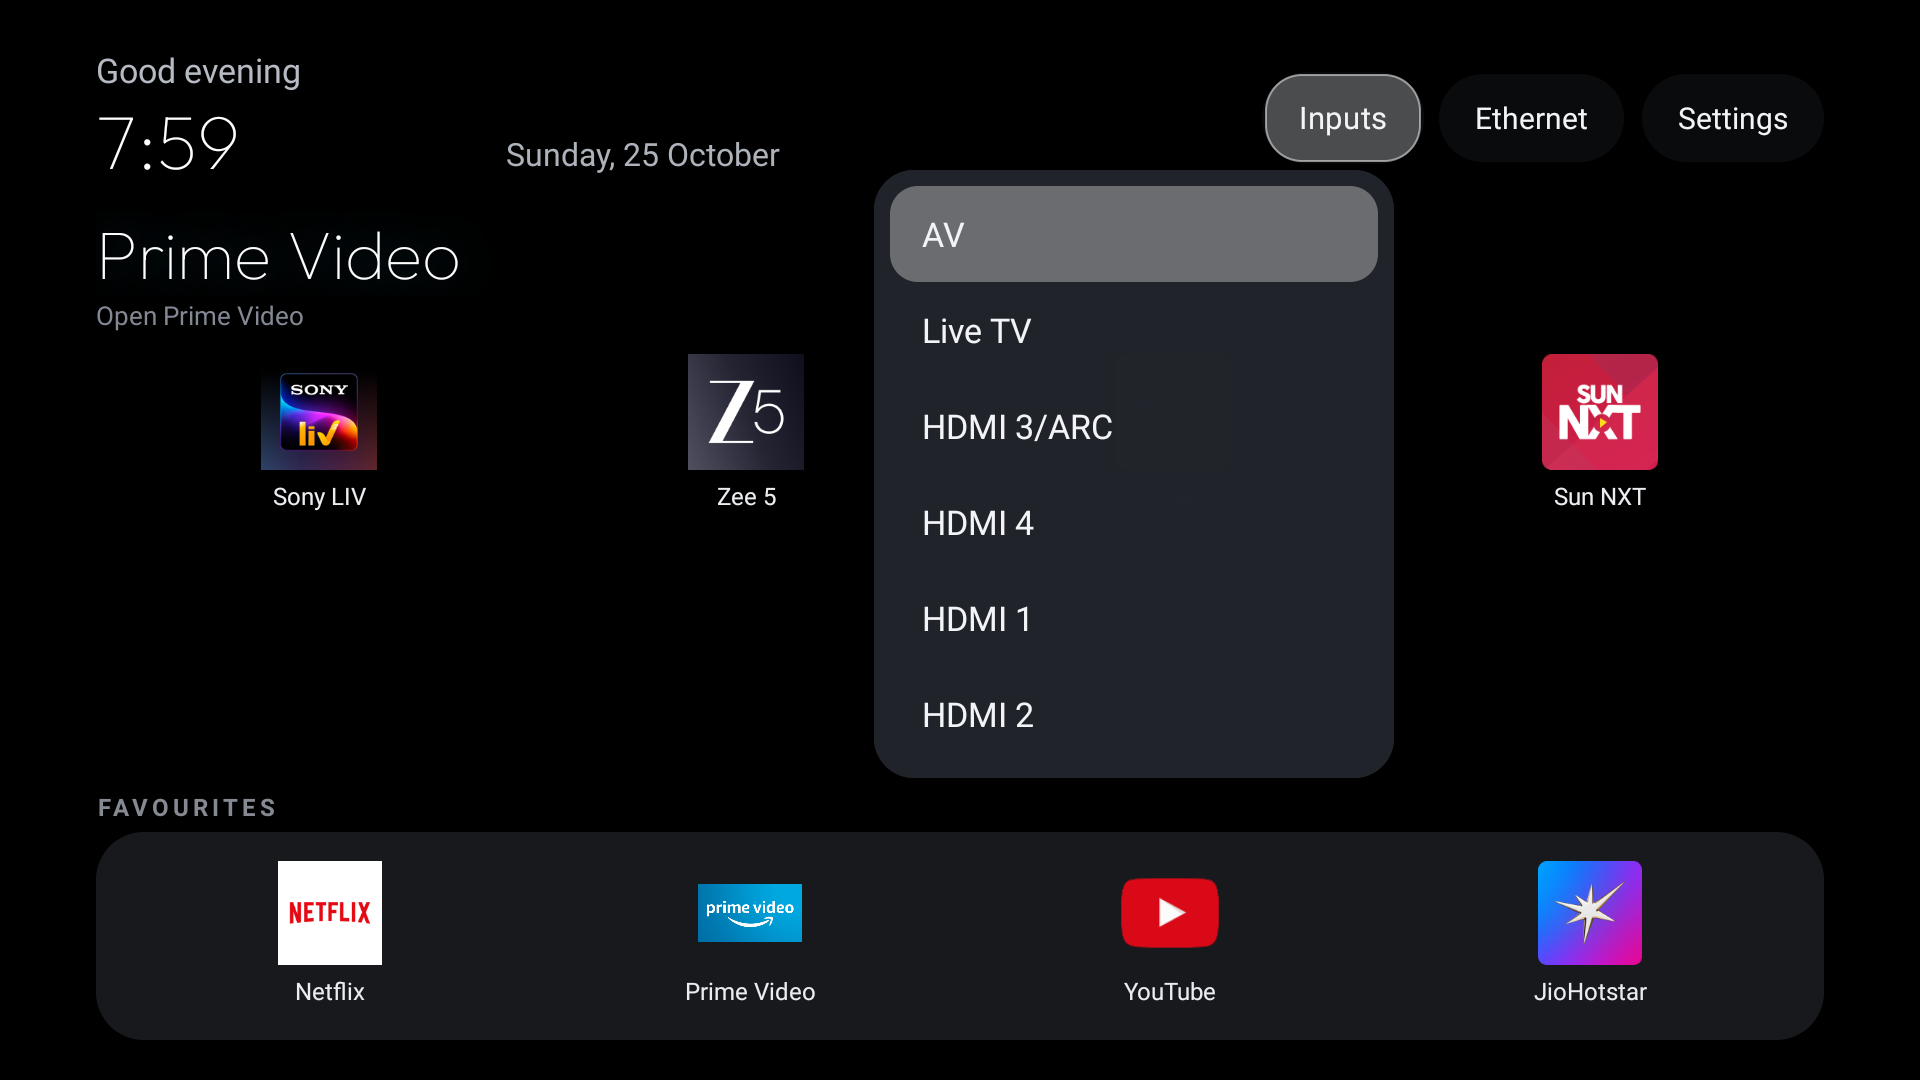
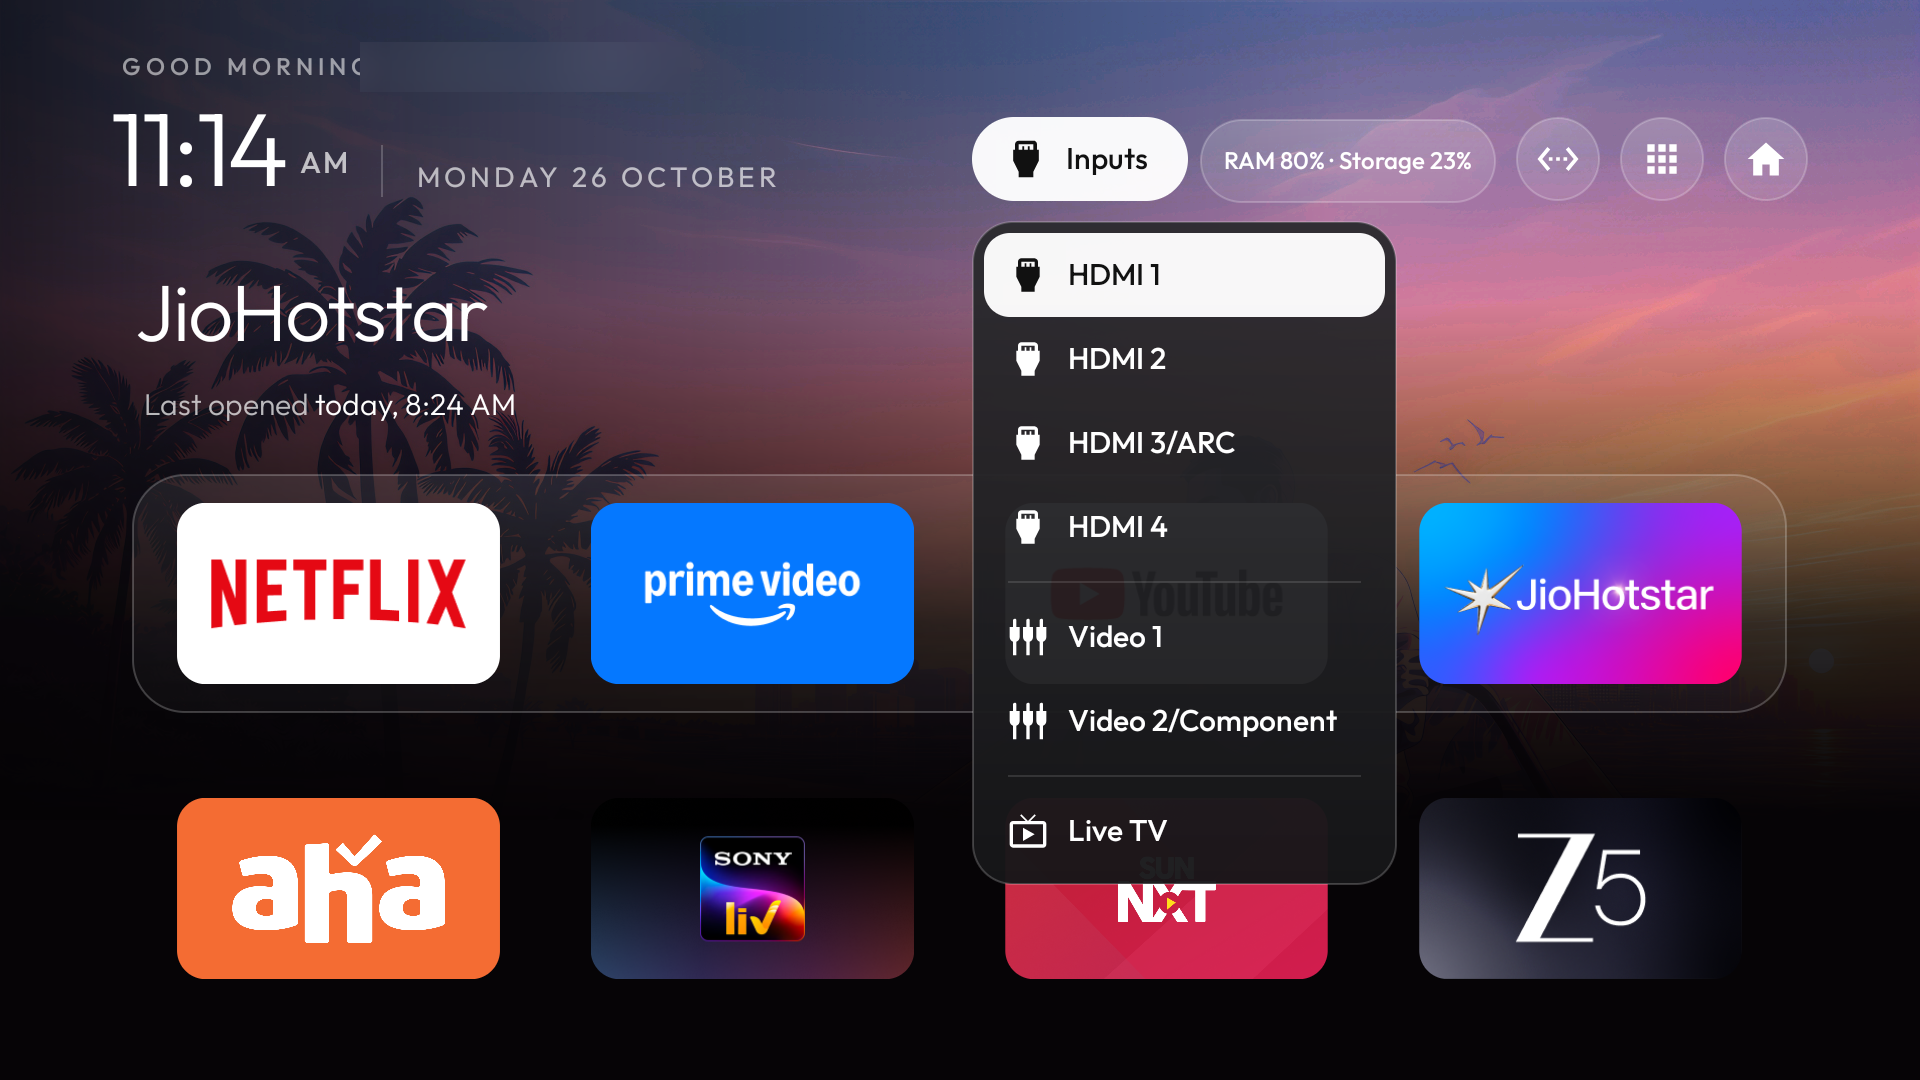
README: showcase the current Glass launcher

diff --git a/README.md b/README.md
@@ -1,70 +1,64 @@
-# Debloat Android TV
+# Debloat Android TV — Glass Home
 
-### A quieter home screen, built around the apps you actually watch.
+### A quieter Home screen, shaped around the way this household watches TV.
+
+The stock home had turned into a wall of promotions and recommendation rows. This project started with a simple goal: make Home feel like *our* TV again—open, clear, and easy to drive with a remote.
+
+We reviewed the Sony BRAVIA KD-49X7500E package list, backed up its settings, and disabled selected feedback, reporting, and manufacturer content/recommendation services without uninstalling packages. The household’s streaming apps, voice assistant, Chromecast, Miracast, and firmware updates stayed available. Then we made a native Android TV launcher the primary Home and refined it against the real screen, one change at a time.
 
 <p align="center">
-  <img src="launcher/screenshots/home.png" alt="The finished Android TV home screen, with a focused Prime Video tile, streaming app grid and four-app glass dock" width="960">
+  <img src="launcher/screenshots/home-glass.png" alt="Live capture of the Glass launcher home, with a four-app dock, wallpaper and streaming app grid" width="100%">
 </p>
 
-<p align="center"><sub>Real screen capture from the TV during the project · Sony BRAVIA KD-49X7500E</sub></p>
+<p align="center"><sub>Current Home capture from the TV · personalized name blurred for privacy</sub></p>
 
-Home should take you straight to your shows. This project started by clearing away the stock home screen's
-promotions and recommendation rows, then shaping a single, remote-friendly home around the eight streaming
-apps the household chose.
+## The home we built
 
-We backed up the TV, reviewed its packages, disabled only the unwanted manufacturer feedback and content
-services, and kept the streaming apps and TV features the family uses. Then we installed the native launcher
-and checked its focus movement, Inputs menu and Home behavior with screenshots from the real screen. The result
-is a dark, calm home that feels made for this TV instead of another feed to scroll through.
+The screen keeps the everyday apps in a four-slot glass dock: **Netflix, Prime Video, YouTube, and JioHotstar**. **Sony LIV, ZEE5, aha, and Sun NXT** sit in the grid immediately below, so all eight selected services are on one Home page.
 
-## The finished home
+The design takes its cue from Apple TV: a dark canvas, a softly translucent dock, one glass focus highlight that glides between tiles, and a focused title with a subtle colour glow. The selected wallpaper stays visible behind the interface. Motion was shortened after tuning on the TV, while the focus treatment and other visual effects stayed in place.
 
-The dock keeps the four everyday picks close: **Netflix · Prime Video · YouTube · JioHotstar**. The rest of the
-home grid holds **Sony LIV · ZEE5 · aha · Sun NXT**, so all eight services are available from the same Home
-screen. The App Library can bring any installed app back onto Home.
+The top bar brings together a time-aware greeting, a thin clock and date, the TV’s Inputs, and a compact **RAM % · Storage %** status pill. The percentages are live readings and change with the TV’s workload.
+
+## Details that make it feel like this TV
 
 <table>
   <tr>
-    <td width="50%"><img src="launcher/screenshots/app-grid.png" alt="The app grid focused on Sony LIV, with the four-app dock below" width="100%"></td>
-    <td width="50%"><img src="launcher/screenshots/inputs-menu.png" alt="The glass Inputs menu showing AV, Live TV and HDMI sources" width="100%"></td>
+    <td width="50%"><img src="launcher/screenshots/inputs-menu.png" alt="The live Glass Inputs menu with HDMI, video and Live TV sources" width="100%"></td>
+    <td width="50%"><img src="launcher/screenshots/app-library.png" alt="The live App Library, with AirPlay apps available without occupying Home" width="100%"></td>
   </tr>
   <tr>
-    <td align="center"><sub>App grid and focused tile</sub></td>
-    <td align="center"><sub>Inputs dropdown: AV, Live TV and HDMI</sub></td>
+    <td align="center"><sub>Inputs opens the TV’s HDMI, video and Live TV sources.</sub></td>
+    <td align="center"><sub>App Library: press an app to add it to Home; hold for more options.</sub></td>
+  </tr>
+  <tr>
+    <td width="50%"><img src="launcher/screenshots/wallpaper-picker.png" alt="Wallpaper picker showing the wallpapers uploaded to the TV" width="100%"></td>
+    <td width="50%"><img src="launcher/screenshots/wallpaper-effects.png" alt="Launcher settings for the grid layout, wallpaper and selected-app colour effects" width="100%"></td>
+  </tr>
+  <tr>
+    <td align="center"><sub>Choose from the wallpapers uploaded to the TV.</sub></td>
+    <td align="center"><sub>Keep the wallpaper while independently turning selected-app colour effects off.</sub></td>
   </tr>
 </table>
 
-## What we built and verified
+- **Add apps whenever you like.** Open the App Library and press an app to add or remove it from Home; hold for its options.
+- **Make the wallpaper the screen.** On this TV, Red toggles the wallpaper-only view and brings the apps back on the next press.
+- **Keep the wallpaper’s colour.** A launcher setting switches off the selected-app gradient without switching off the wallpaper.
+- **Reach TV controls quickly.** Blue opens TV Settings on this remote. The Inputs menu uses the TV’s input framework rather than a mock list.
+- **Keep a clock for idle moments.** The launcher’s clock screensaver remains available in the setup.
+- **Mirror an iPhone.** AirPlay mirroring from an iPhone 13 was verified on the TV. The receiver apps were installed separately and are shown in the App Library; they are not part of this launcher repository.
 
-- **A native Android TV launcher** with a pitch-black canvas, rounded glass dock, focused app title and a single
-  moving highlight that follows the D-pad.
-- **A one-home app layout** with four dock slots and the remaining selected streaming apps in the grid.
-- **A real Inputs menu** for AV, Live TV and the TV's HDMI ports, opened through the Android TV input system.
-- **A useful top bar** with a time-aware greeting, clock, date, Inputs, Ethernet status and Settings.
-- **Wallpaper controls** including a wallpaper-only view. On the configured TV, Red toggled that view and Blue
-  opened TV Settings. The selected-app colour effect can be turned off without hiding the wallpaper.
-- **At-a-glance RAM and storage percentages** in one compact status bubble.
-- **A clock screensaver**, an App Library for managing Home shortcuts, and D-pad navigation that remembers
-  focus.
-- **Smoother focus motion** tuned for the TV, with less overshoot while keeping the glass styling.
+The screenshots in this README were freshly pulled from the TV for this update. Personal greeting text is blurred in the public images.
 
-The screenshots above are genuine captures from the setup session, not mockups. Home remained available after
-a reboot, and the remote's Inputs menu showed the TV's actual AV, Live TV and HDMI sources.
+## What this repository contains
 
-## What is in this repository
+This is the launcher-only project requested for the repository: Java launcher source, Gradle build files, the font licence, a build-and-install helper, and the fresh screenshots above. The TV backup and package lists, per-TV theme/profile, uploaded wallpaper files, and separately installed AirPlay receiver are not included.
 
-This repository is intentionally focused on the launcher: Java source, Gradle build files and the screenshots
-shown above. The per-TV setup profile, device backup, debloat scripts, wallpaper collection and separately
-installed AirPlay receiver are not bundled here. AirPlay mirroring from an iPhone 13 was verified separately
-on the TV; it is not a launcher feature.
-
-The launcher source supports themes and remote-key actions. The screenshots document the customized setup used
-for this project; the per-TV configuration itself is not included in this launcher-only repository.
+The Red and Blue button mappings describe the profile used on this TV. Remote mappings and appearance can differ across devices; the repository does not claim those buttons are universal defaults.
 
 ## Build
 
-The launcher targets Android TV devices running Android 8.0 or newer (minimum SDK 26). Build with JDK 17 and
-Android SDK platform 34.
+The launcher supports Android TV devices running Android 8.0 or newer (**minSdk 26**). Build with JDK 17 and Android SDK platform 34.
 
 **Windows PowerShell**
 
@@ -80,10 +74,8 @@ cd launcher
 ./gradlew assembleRelease
 ```
 
-The release APK is written to `launcher/app/build/outputs/apk/release/app-release.apk`. Install it on a
-compatible TV using ADB, then select it as the Home app in the TV's launcher settings.
+The release APK is written to `launcher/app/build/outputs/apk/release/app-release.apk`. The launcher is built for sideloading and Home selection on a compatible Android TV.
 
 ---
 
-Built from the open-source [CleanYourTV launcher](https://github.com/Gathin23/cleanyourtv), then configured
-and refined on a real television for the apps, remote and inputs used in this home.
+Built on the open-source [CleanYourTV launcher](https://github.com/Gathin23/cleanyourtv), then configured and refined for one real TV, one remote, and the apps this household chose.
